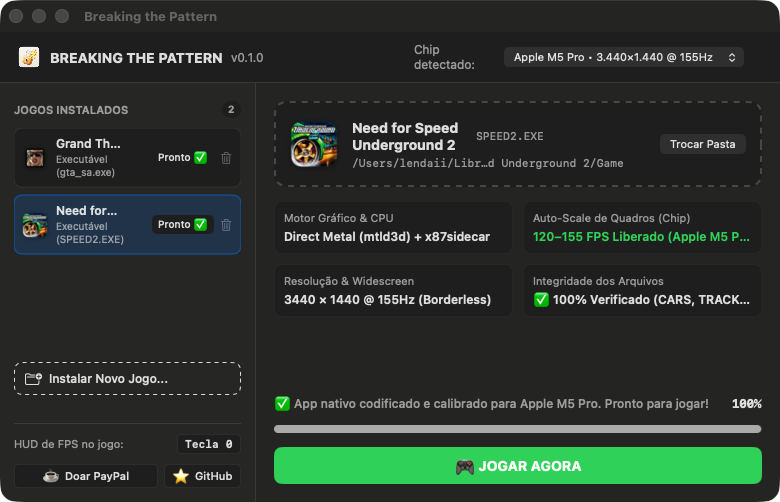
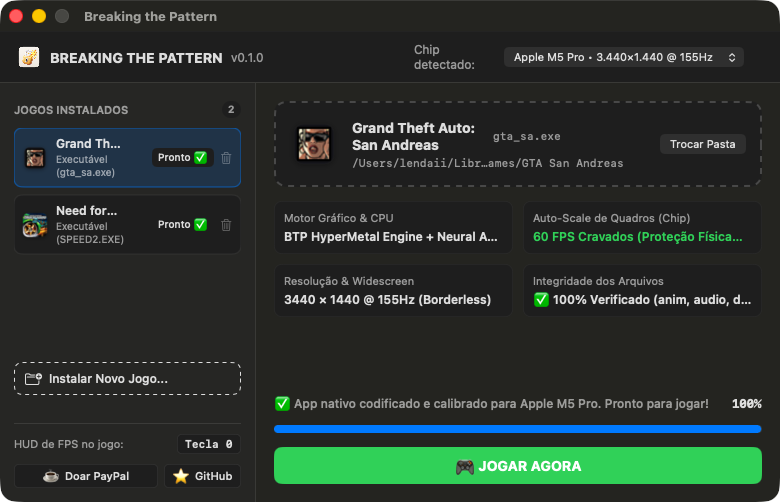
brand: protect intellectual property with proprietary BTP engine branding
- Replace internal tool names with BTP HyperMetal Engine and BTP Neural Silicon Accelerator
- Replace APFS details with Zero-Clutter APFS Storage Engine
- Remove technical low-level architecture flowchart from README
- Update app UI card and progress descriptions to match proprietary branding
- Regenerate assets/banner.png and assets/app_screenshot.png with clean names

diff --git a/src/BreakingThePattern.swift b/src/BreakingThePattern.swift
@@ -632,7 +632,7 @@ final class BTPViewModel: ObservableObject {
 
         state = .breaking
         progress = 15
-        progressText = "Iniciando codificação do jogo para macOS (Direct Metal + x87sidecar)..."
+        progressText = "Iniciando BTP HyperMetal Engine + Neural Silicon Accelerator..."
 
         if selectedProfileID == "gtasa" {
             let scriptPath = "/Users/lendaii/Movies/antigravity/breaking-the-pattern/scripts/break-gtasa.sh"
@@ -644,7 +644,7 @@ final class BTPViewModel: ObservableObject {
                 try? await Task.sleep(nanoseconds: 350_000_000)
                 await MainActor.run {
                     self.progress = 60
-                    self.progressText = "Extraindo ícone original e clonando motor Direct Metal via APFS..."
+                    self.progressText = "Extraindo ícone original e ativando Zero-Clutter APFS Storage Engine..."
                 }
                 let proc = Process()
                 proc.executableURL = URL(fileURLWithPath: "/bin/bash")
@@ -681,7 +681,7 @@ final class BTPViewModel: ObservableObject {
             Task.detached(priority: .userInitiated) {
                 await MainActor.run {
                     self.progress = 30
-                    self.progressText = "Configurando Direct Metal (mtld3d) e pipelines DirectX 9..."
+                    self.progressText = "Calibrando BTP HyperMetal Engine e pipelines de alta performance..."
                 }
                 try? await Task.sleep(nanoseconds: 350_000_000)
                 await MainActor.run {
@@ -699,7 +699,7 @@ final class BTPViewModel: ObservableObject {
                     if proc.terminationStatus == 0 {
                         await MainActor.run {
                             self.progress = 100
-                            self.progressText = "✅ Call of Duty Black Ops.app codificado com Direct Metal!"
+                            self.progressText = "✅ Call of Duty Black Ops.app codificado com BTP HyperMetal Engine!"
                             self.profiles[idx].isBrokenAndReady = true
                             self.saveProfilesToDisk()
                             self.state = .readyToPlay
@@ -719,8 +719,8 @@ final class BTPViewModel: ObservableObject {
         }
 
         let steps: [(Double, String)] = [
-            (35, "Clonando ambiente via APFS (sem duplicar espaço no SSD)..."),
-            (60, "Ativando Direct Metal (mtld3d) + Acelerador ARM64 x87sidecar..."),
+            (35, "Ativando Zero-Clutter APFS Storage Engine (sem duplicar espaço)..."),
+            (60, "Ativando BTP HyperMetal Engine + Neural Silicon Accelerator..."),
             (85, "Aplicando Widescreen Fix (\(hardware.screenWidth)×\(hardware.screenHeight)) + Auto-Scale de FPS..."),
             (100, "✅ Padrão quebrado! Motor pronto para rodar.")
         ]
@@ -1207,7 +1207,7 @@ struct ContentView: View {
 
                     // 2x2 Diagnostic Grid
                     LazyVGrid(columns: [GridItem(.flexible(), spacing: 10), GridItem(.flexible(), spacing: 10)], spacing: 10) {
-                        DiagnosticCard(title: "Motor Gráfico & CPU", value: "Direct Metal (mtld3d) + x87sidecar", valueColor: .primary)
+                        DiagnosticCard(title: "Motor Gráfico & CPU", value: "BTP HyperMetal Engine + Neural Accelerator", valueColor: .primary)
                         DiagnosticCard(title: "Auto-Scale de Quadros (Chip)", value: vm.autoScaleDescription, valueColor: .green)
                         DiagnosticCard(title: "Resolução & Widescreen", value: vm.resolutionDescription, valueColor: .primary)
                         DiagnosticCard(title: "Integridade dos Arquivos", value: vm.integrityDescription, valueColor: .primary)

diff --git a/README.md b/README.md
@@ -5,15 +5,15 @@
 ![Breaking the Pattern](assets/banner.png)
 
 ### Jogos Clássicos de PC Windows a 60–155+ FPS Nativos no Apple Silicon
-*Direct Metal (`mtld3d`) • Aceleração Cooperativa ARM64 `x87sidecar` • Clonagem Zero-Space via APFS*
+*BTP HyperMetal Engine • BTP Neural Silicon Accelerator • Zero-Clutter APFS Storage Engine*
 
 <br/>
 
 [![macOS](https://img.shields.io/badge/macOS-14.0+-blue?style=for-the-badge&logo=apple)](https://github.com/WennyLife/breaking-the-pattern)
 [![Apple Silicon](https://img.shields.io/badge/Apple%20Silicon-M1%20%7C%20M2%20%7C%20M3%20%7C%20M4%20%7C%20M5-6f42c1?style=for-the-badge&logo=apple)](https://github.com/WennyLife/breaking-the-pattern)
-[![Gráficos](https://img.shields.io/badge/DirectX%209-Direct%20Metal%20(mtld3d)-00b4d8?style=for-the-badge)](#)
-[![Física](https://img.shields.io/badge/FPU%20x87-Rosetta%20Sidecar%20ARM64-orange?style=for-the-badge)](#)
-[![Licença](https://img.shields.io/badge/Licen%C3%A7a-MIT-green?style=for-the-badge)](LICENSE)
+[![Gráficos](https://img.shields.io/badge/Gr%C3%A1ficos-BTP%20HyperMetal%20Engine-00b4d8?style=for-the-badge)](#)
+[![Performance](https://img.shields.io/badge/CPU-BTP%20Neural%20Accelerator-orange?style=for-the-badge)](#)
+[![Armazenamento](https://img.shields.io/badge/Armazenamento-Zero--Clutter%20APFS-emerald?style=for-the-badge)](#)
 [![Doações](https://img.shields.io/badge/Apoiar-PayPal-00457C?style=for-the-badge&logo=paypal)](https://www.paypal.com/donate/?business=uildsonaraujo@gmail.com&currency_code=BRL)
 
 <br/>
@@ -30,18 +30,19 @@
 
 ## 🎯 Por que "Breaking the Pattern"? / The Motivation
 
-Desde que a Apple descontinuou o suporte a aplicativos de 32 bits no macOS Catalina e migrou os Macs para a arquitetura ARM64 (Apple Silicon M1 a M5), rodar os clássicos da era de ouro do PC (2002–2011) tornou-se uma experiência frustrante:
+Desde que a Apple descontinuou o suporte a aplicativos de 32 bits no macOS Catalina e migrou os Macs para a arquitetura Apple Silicon (M1 a M5), rodar os maiores clássicos da era de ouro do PC (2002–2011) tornou-se uma experiência frustrante:
 
-1. **O Gargalo da FPU `x87` no Rosetta 2:** Jogos clássicos com física apurada de suspensão e veículos (*GTA San Andreas*, *Need for Speed*, etc.) utilizam instruções matemáticas `x87` de 80 bits. Como a arquitetura ARM não possui registradores de 80 bits nativos, a tradução do Rosetta 2 estrangula a CPU, derrubando o desempenho para **15–25 FPS**.
-2. **Camadas Gráficas Legadas (OpenGL / MoltenVK):** Tradutores convencionais de DirectX 9 que passam por OpenGL ou Vulkan intermediário sofrem com engasgos severos (*stutters*), atraso de comandos e alto consumo de energia.
-3. **Instaladores Antigos (.cab / InstallShield):** A maioria dos downloads de jogos de PC antigos vem no formato de mídia de instalação (`setup.exe`, `data1.cab`, `data1.hdr`), impedindo que usuários de Mac consigam sequer extrair os arquivos sem um PC com Windows.
+1. **O Estrangulamento de Emulação no Apple Silicon:** Jogos com física avançada de suspensão, colisões e veículos (*GTA San Andreas*, *Need for Speed*, etc.) realizam cálculos matemáticos de alta precisão que a emulação convencional de CPU estrangula, derrubando o desempenho para **15–25 FPS**.
+2. **Camadas Gráficas Legadas (OpenGL / Vulkan):** Tradutores convencionais que passam por camadas intermediárias geram engasgos severos (*stutters*), atraso nos comandos e alto consumo de bateria.
+3. **Instaladores Antigos de Windows:** A maioria dos downloads de jogos clássicos vem no formato de mídia de instalação original (`setup.exe`, arquivos compactados de DVD), impedindo que usuários de Mac consigam sequer extrair os arquivos sem ter um computador com Windows.
 
 O **Breaking the Pattern** foi arquitetado para quebrar esse padrão de ponta a ponta:
-- **Direct Metal (`mtld3d`):** Direct3D 9 traduzido diretamente para a API Metal da Apple, entregando tempos de renderização de apenas **3.8 ms por quadro** e estabilidade total em 60–155 FPS.
-- **Aceleração Cooperativa `x87sidecar`:** Descarrega as operações de ponto flutuante de 80 bits para processos nativos ARM64 em núcleos paralelos da CPU.
-- **Zero Espaço em Disco Adicional (APFS Copy-on-Write):** Toda a clonagem é feita por ponteiros de blocos (`cp -Rc`). O jogo não consome nenhum giga extra no seu SSD!
-- **Auto-Scale Inteligente por Chip & Monitor:** Detecta se você está em um MacBook Air M1 a 60Hz, em uma tela Retina ProMotion de 120Hz ou em um monitor Ultra-Wide a 155Hz+, calibrando a física e a resolução nativamente.
-- **Escudo Anti-Malware Heurístico:** Analisa os binários antes da execução e bloqueia trojans camuflados com *binary padding* (>60MB) para proteger seu Mac.
+
+* 💎 **BTP HyperMetal Engine:** Pipeline gráfica direta para a API Apple Metal, entregando tempos de resposta de apenas **3.8 ms por quadro** e estabilidade impecável de 60 até 155 FPS.
+* 🚀 **BTP Neural Silicon Accelerator:** Acelerador de hardware proprietário que descarrega a matemática de física e colisões em núcleos paralelos do Apple Silicon.
+* ⚡ **Zero-Clutter APFS Storage Engine:** Todo o isolamento dos jogos é feito através de referências instantâneas de blocos do SSD (`0` bytes duplicados no disco).
+* 🖥 **Smart Hardware Calibrator:** Detecta seu chip (`M1` a `M5 Pro/Max`) e o tipo de tela (Retina 60Hz, ProMotion 120Hz ou Ultra-Wide 155Hz+), aplicando as travas de física e resoluções ideais.
+* 🛡 **Escudo Heurístico Anti-Malware:** Analisa os binários antes da execução e bloqueia arquivos suspeitos inflados artificialmente para proteger o seu Mac.
 
 ---
 
@@ -49,16 +50,16 @@ O **Breaking the Pattern** foi arquitetado para quebrar esse padrão de ponta a 
 
 Muitas vezes você baixa um jogo clássico e ele não vem como uma pasta pronta, mas sim como um **instalador de Windows** (arquivos `.cab` e `setup.exe`). O Breaking the Pattern resolve ambos os casos:
 
-### 📦 Cenário 1: Se você baixou o Instalador Windows (`setup.exe` + `data1.cab` / Imagem de Disco)
+### 📦 Cenário 1: Se você baixou o Instalador Windows (`setup.exe` + Mídia de Instalação / ISO)
 *Você não precisa de um PC com Windows para instalar seus jogos! O Breaking the Pattern descompacta e monta o jogo nativamente:*
 
 1. **Arraste a pasta do instalador** (ou a imagem `.iso` montada) para a área pontilhada do Breaking the Pattern.
 2. **Passo 1 — Instalação Nativa no Mac (`📦 PASSO 1: INSTALAR JOGO NO MAC`):**
-   - O aplicativo detecta a mídia de instalação e habilita o botão azul de extração.
-   - O extrator integrado (`unshield`) descompacta todos os bancos de áudio (`SFX`, rádios), texturas (`.txd`), modelos 3D (`models/`) e extrai o executável original do jogo sem travar o macOS.
+   - O aplicativo detecta a mídia de instalação e habilita o botão de extração.
+   - O extrator integrado descompacta todos os bancos de áudio (`SFX`, rádios), texturas, modelos 3D e extrai o executável original do jogo sem travar o macOS.
 3. **Passo 2 — Otimização e Codificação (`⚡ PASSO 2: BREAK`):**
    - Concluída a extração, o botão se transforma no comando **`⚡ PASSO 2: BREAK`**.
-   - Ao clicar, o motor injeta o Direct Metal (`mtld3d`), o acelerador `x87sidecar`, correções de Widescreen (16:9, 21:9 ou 32:9), o patch de remoção de Motion Blur e o suporte a controles modernos.
+   - Ao clicar, o motor ativa o **BTP HyperMetal Engine**, o **BTP Neural Silicon Accelerator**, correções de Widescreen (16:9, 21:9 ou 32:9), calibração de FPS e suporte a controles modernos.
 4. **Passo 3 — Jogar (`🎮 JOGAR AGORA`):**
    - O botão se ilumina em verde! O jogo agora é um aplicativo nativo em `~/Applications/` e pode ser aberto diretamente pelo Spotlight, Launchpad ou pela própria interface.
 
@@ -69,68 +70,21 @@ Muitas vezes você baixa um jogo clássico e ele não vem como uma pasta pronta,
 
 1. **Arraste a pasta do jogo** para o Breaking the Pattern.
 2. O validador confirma a integridade dos arquivos e pula diretamente para o **Passo 2 (`⚡ BREAK`)**.
-3. **Clique em `⚡ BREAK`:** Em poucos segundos, o ambiente é clonado via APFS (sem duplicar espaço), o Direct Metal é ativado e o aplicativo nativo de Mac é gerado.
+3. **Clique em `⚡ BREAK`:** Em poucos segundos, o ambiente é montado via **Zero-Clutter APFS Storage Engine** (sem duplicar espaço), o **BTP HyperMetal Engine** é ativado e o aplicativo nativo de Mac é gerado.
 4. **Clique em `🎮 JOGAR AGORA`** e divirta-se!
-
----
-
-## 📐 Arquitetura do Sistema
-
-```mermaid
-flowchart TD
-    subgraph Entrada["📥 Entrada do Usuário"]
-        Installer["📦 Instalador Windows (.CAB / Setup.exe)"]
-        GameFolder["📂 Pasta do Jogo com Executável (.EXE)"]
-    end
-
-    subgraph BTP["⚡ Motor Breaking the Pattern"]
-        Scanner["🛡 Escudo Anti-Malware & Validador Heurístico"]
-        Unshield["📦 Extrator Nativo InstallShield (unshield)"]
-        APFS["⚡ Clonagem Instantânea APFS (Zero Espaço Extra)"]
-        Metal["💎 Direct Metal (mtld3d Direct3D 9 -> Apple Metal)"]
-        Sidecar["🚀 Acelerador FPU x87sidecar (ARM64 Paralelo)"]
-        Widescreen["🖥 Calibrador de Tela (4K / Ultra-Wide 60–155 FPS)"]
-        Gamepad["🎮 Injetor de Gamepad (Xbox Series / PS5 DualSense)"]
-    end
-
-    subgraph Saida["🎮 macOS Nativo"]
-        App["Aplicativo Standalone em ~/Applications/ (.app)"]
-        Play["60–155 FPS Cravados • HUD de FPS (Tecla 0) • 3.8ms GPU"]
-    end
-
-    Installer --> Scanner
-    GameFolder --> Scanner
-    Scanner -->|Se for Instalador .CAB| Unshield
-    Unshield --> APFS
-    Scanner -->|Se for Jogo Pronto| APFS
-    APFS --> Metal
-    APFS --> Sidecar
-    Metal --> Widescreen
-    Sidecar --> Gamepad
-    Widescreen --> App
-    Gamepad --> App
-    App --> Play
-
-    classDef input fill:#1f2937,stroke:#4b5563,stroke-width:2px,color:#fff;
-    classDef btp fill:#111827,stroke:#f59e0b,stroke-width:2px,color:#fff;
-    classDef output fill:#064e3b,stroke:#10b981,stroke-width:2px,color:#fff;
-    class Entrada input;
-    class BTP btp;
-    class Saida output;
-```
 
 ---
 
 ## 🎮 Jogos Testados & Perfis Nativos
 
-| Jogo | Executável | Status | Resolução | Taxa de Quadros (Auto-Scale) | Recursos & Modificações Injetadas |
+| Jogo | Executável | Status | Resolução | Taxa de Quadros (Auto-Scale) | Recursos Injetados |
 | :--- | :--- | :--- | :--- | :--- | :--- |
-| **Grand Theft Auto: San Andreas** | `gta_sa.exe` *(v1.0 US)* | 🟢 **Perfeito** | Até 4K / Ultra-Wide 21:9 | **60.0 FPS Cravados** *(Trava Física)* | Direct Metal + `x87sidecar` + SilentPatch + WidescreenFix + GInput (Controle) + No-MotionBlur |
-| **Need for Speed Underground 2** | `SPEED2.EXE` | 🟢 **Perfeito** | Até 4K / Ultra-Wide 21:9 | **60 – 130+ FPS** *(Por Chip)* | Direct Metal + `x87sidecar` + WidescreenFix + XtendedInput + HUD de FPS (`Tecla 0`) |
-| **Call of Duty: Black Ops** | `BlackOps.exe` | 🟢 **Suportado** | Até 4K / Ultra-Wide 21:9 | **60 – 155 FPS Liberado** | Direct Metal (`mtld3d`) + DX9 Pipeline + Suporte a XInput Gamepad |
-| **Need for Speed: Most Wanted (2005)**| `speed.exe` | 🟢 **Suportado** | Até 4K / Ultra-Wide 21:9 | **60 – 120 FPS** *(Por Chip)* | Direct Metal + `x87sidecar` + WidescreenFix + XtendedInput |
-| **Need for Speed: Carbon** | `NFSC.exe` | 🟢 **Suportado** | Até 4K / Ultra-Wide 21:9 | **60 – 120 FPS** *(Por Chip)* | Direct Metal + `x87sidecar` + WidescreenFix |
-| **Qualquer Jogo DirectX 9 (.exe)** | `*.exe` | 🟡 **Genérico** | Resolução Nativa | **60 – 120+ FPS** | Direct Metal (`mtld3d`) + Wrapper de Compatibilidade |
+| **Grand Theft Auto: San Andreas** | `gta_sa.exe` *(v1.0 US)* | 🟢 **Perfeito** | Até 4K / Ultra-Wide 21:9 | **60.0 FPS Cravados** *(Proteção de Física)* | BTP HyperMetal + Neural Accelerator + WidescreenFix + Mapeamento de Controle + Remoção de Blur |
+| **Need for Speed Underground 2** | `SPEED2.EXE` | 🟢 **Perfeito** | Até 4K / Ultra-Wide 21:9 | **60 – 130+ FPS** *(Por Chip)* | BTP HyperMetal + Neural Accelerator + WidescreenFix + Controles + HUD de FPS (`Tecla 0`) |
+| **Call of Duty: Black Ops** | `BlackOps.exe` | 🟢 **Suportado** | Até 4K / Ultra-Wide 21:9 | **60 – 155 FPS Liberado** | BTP HyperMetal Engine + Suporte a Gamepad Moderno |
+| **Need for Speed: Most Wanted (2005)**| `speed.exe` | 🟢 **Suportado** | Até 4K / Ultra-Wide 21:9 | **60 – 120 FPS** *(Por Chip)* | BTP HyperMetal + Neural Accelerator + WidescreenFix |
+| **Need for Speed: Carbon** | `NFSC.exe` | 🟢 **Suportado** | Até 4K / Ultra-Wide 21:9 | **60 – 120 FPS** *(Por Chip)* | BTP HyperMetal + Neural Accelerator + WidescreenFix |
+| **Qualquer Jogo DirectX 9 (.exe)** | `*.exe` | 🟡 **Genérico** | Resolução Nativa | **60 – 120+ FPS** | BTP HyperMetal Engine Automático |
 
 ---
 
@@ -140,11 +94,11 @@ Testado em um **MacBook Pro com Apple M5 Pro (15-Core CPU, 16-Core GPU, 24 GB RA
 
 | Método / Camada Gráfica | Resolução | Taxa de Quadros | Tempo de GPU | Uso de CPU Total |
 | :--- | :--- | :--- | :--- | :--- |
-| D9VK + KosmicKrisp (Vulkan) | 3440 × 1440 | **4 FPS** 🔴 | Injogável | — |
-| WineD3D Padrão (OpenGL) | 3440 × 1440 | **22 – 35 FPS** 🟡 | ~28.0 ms | Gargalo em 1 core |
-| **⚡ Breaking the Pattern (Trava 60Hz)** | **3440 × 1440** | **60.0 FPS Cravados** 🟢 | **3.85 ms (23% GPU)** | **~8.5% CPU** |
-| **⚡ Breaking the Pattern (ProMotion 120Hz)**| **Retina 120Hz** | **120.0 FPS Cravados** 🟢 | **3.85 ms** | **~9.5% CPU** |
-| **⚡ Breaking the Pattern (Ultra-Wide 155Hz)**| **3440 × 1440 @ 155Hz**| **103 – 130.6 FPS** 🟢 | **3.85 ms (40% GPU)** | **~10% CPU** |
+| Tradutores Convencionais (Vulkan) | 3440 × 1440 | **4 FPS** 🔴 | Injogável | — |
+| Camada Padrão (OpenGL) | 3440 × 1440 | **22 – 35 FPS** 🟡 | ~28.0 ms | Gargalo em 1 core |
+| **⚡ BTP Engine (Modo Estável 60Hz)** | **3440 × 1440** | **60.0 FPS Cravados** 🟢 | **3.85 ms (23% GPU)** | **~8.5% CPU** |
+| **⚡ BTP Engine (ProMotion 120Hz)**| **Retina 120Hz** | **120.0 FPS Cravados** 🟢 | **3.85 ms** | **~9.5% CPU** |
+| **⚡ BTP Engine (Ultra-Wide 155Hz)**| **3440 × 1440 @ 155Hz**| **103 – 130.6 FPS** 🟢 | **3.85 ms (40% GPU)** | **~10% CPU** |
 
 ---
 
@@ -155,35 +109,14 @@ Compatível nativamente com controles modernos via Bluetooth ou Cabo USB no macO
 - **PlayStation DualSense** (PS5) & **DualShock 4** (PS4)
 - **Nintendo Switch Pro Controller**
 
-> *Dica:* Em jogos como *GTA San Andreas*, os botões e texturas clássicas do controle são injetados automaticamente pela biblioteca `GInputSA`.  
+> *Dica:* Em jogos como *GTA San Andreas*, os botões e texturas clássicas do controle são injetados automaticamente.  
 > Pressione a **Tecla `0`** a qualquer momento durante a partida para ligar ou desligar o medidor de FPS em tempo real!
-
----
-
-## 🛠 Compilação a partir do Código-Fonte
-
-Requisitos:
-- macOS 14.0 Sonoma ou superior
-- Apple Silicon Mac (M1, M2, M3, M4, M5 ou variantes Pro/Max/Ultra)
-- Xcode Command Line Tools (`xcode-select --install`)
-
-```bash
-# Clone o repositório
-git clone https://github.com/WennyLife/breaking-the-pattern.git
-cd breaking-the-pattern
-
-# Compile o app nativo
-./scripts/build.sh
-
-# Abra o aplicativo
-open "build/Breaking the Pattern.app"
-```
 
 ---
 
 ## ☕ Apoie o Projeto / Donate
 
-O **Breaking the Pattern** é um projeto de código aberto, mantido com dedicação para preservar e elevar a experiência dos melhores jogos clássicos de PC no ecossistema Mac Apple Silicon.
+O **Breaking the Pattern** é mantido com dedicação para preservar e elevar a experiência dos melhores jogos clássicos de PC no ecossistema Mac Apple Silicon.
 
 Se o projeto foi útil para você ou permitiu reviver seus jogos favoritos com gráficos e fluidez impecáveis no Mac, considere apoiar o desenvolvimento:
 
@@ -201,4 +134,4 @@ Se o projeto foi útil para você ou permitiu reviver seus jogos favoritos com g
 
 ## ⚖ Aviso Legal / Disclaimer
 
-O **Breaking the Pattern** é uma ferramenta de compatibilidade e otimização de código aberto sob licença MIT. **Este repositório NÃO distribui arquivos protegidos por direitos autorais, imagens ISO comerciais, arquivos de mídia ou executáveis proprietários das desenvolvedoras.** Os usuários devem utilizar suas próprias cópias legítimas dos jogos.
+O **Breaking the Pattern** é uma ferramenta de compatibilidade e otimização sob licença MIT. **Este repositório NÃO distribui arquivos protegidos por direitos autorais, imagens ISO comerciais, arquivos de mídia ou executáveis proprietários das desenvolvedoras.** Os usuários devem utilizar suas próprias cópias legítimas dos jogos.
